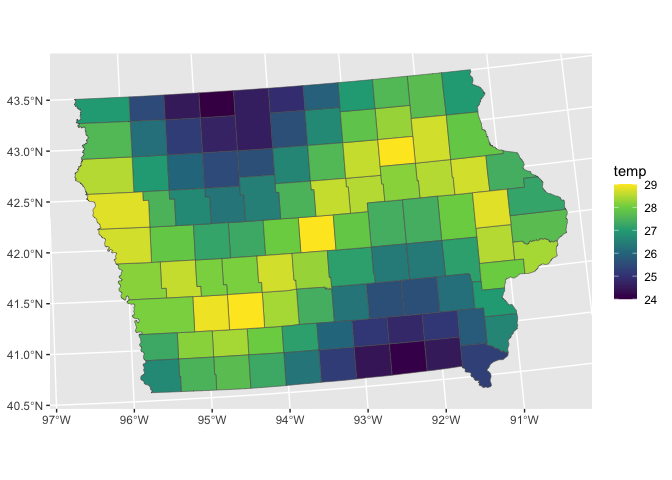
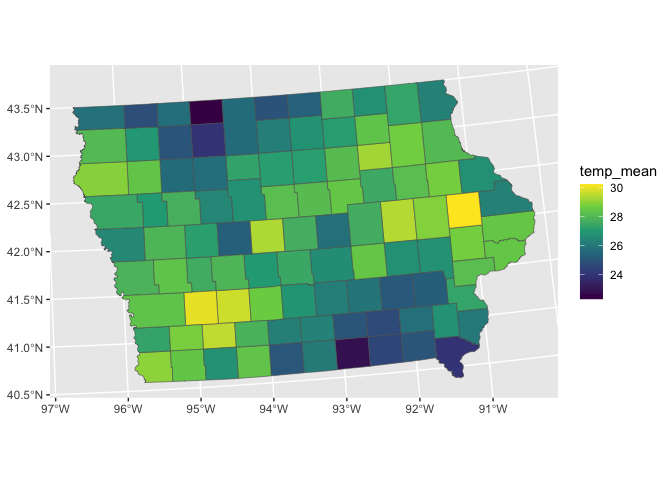
updated readme with new data

diff --git a/README.md b/README.md
@@ -36,12 +36,8 @@ by having several alternatives to the standard fill.
 ``` r
 library(ggdibbler)
 library(ggplot2)
-#> Warning: package 'ggplot2' was built under R version 4.3.1
-#> 
-#> Attaching package: 'ggplot2'
-#> The following object is masked from 'package:ggdibbler':
-#> 
-#>     scale_type
+library(dplyr)
+library(sf)
 ```
 
 Typically, if we had an average estimate for a series of areas, we would
@@ -49,10 +45,14 @@ simply display the average, or keep the average separate. Below is an
 example of this with a choropleth map.
 
 ``` r
-# normal map
-toymap |> 
-  ggplot() + 
-  geom_sf(aes(geometry = geometry, fill=temp)) +
+# Make average summary of data
+toy_temp_mean <- toy_temp |> 
+  dplyr::group_by(county_name) |>
+  summarise(temp_mean = mean(recorded_temp))
+
+# plot it
+ggplot(toy_temp_mean) +
+  geom_sf(aes(geometry=county_geometry, fill=temp_mean)) +
   scale_fill_viridis_c()
 ```
 
@@ -63,10 +63,10 @@ each estimate as a sample of values from its sampling distribution.
 
 ``` r
 # sample map
-toymap |> 
+toy_temp_dist |> 
   ggplot() + 
-  geom_sf_sample(aes(geometry = geometry, fill=temp_dist), linewidth=0.1) + 
-  geom_sf(aes(geometry=geometry), fill=NA, linewidth=1) +
+  geom_sf_sample(aes(geometry = county_geometry, fill=temp_dist), linewidth=0.1) + 
+  geom_sf(aes(geometry = county_geometry), fill=NA, linewidth=1) +
   scale_fill_viridis_c()
 ```
 
